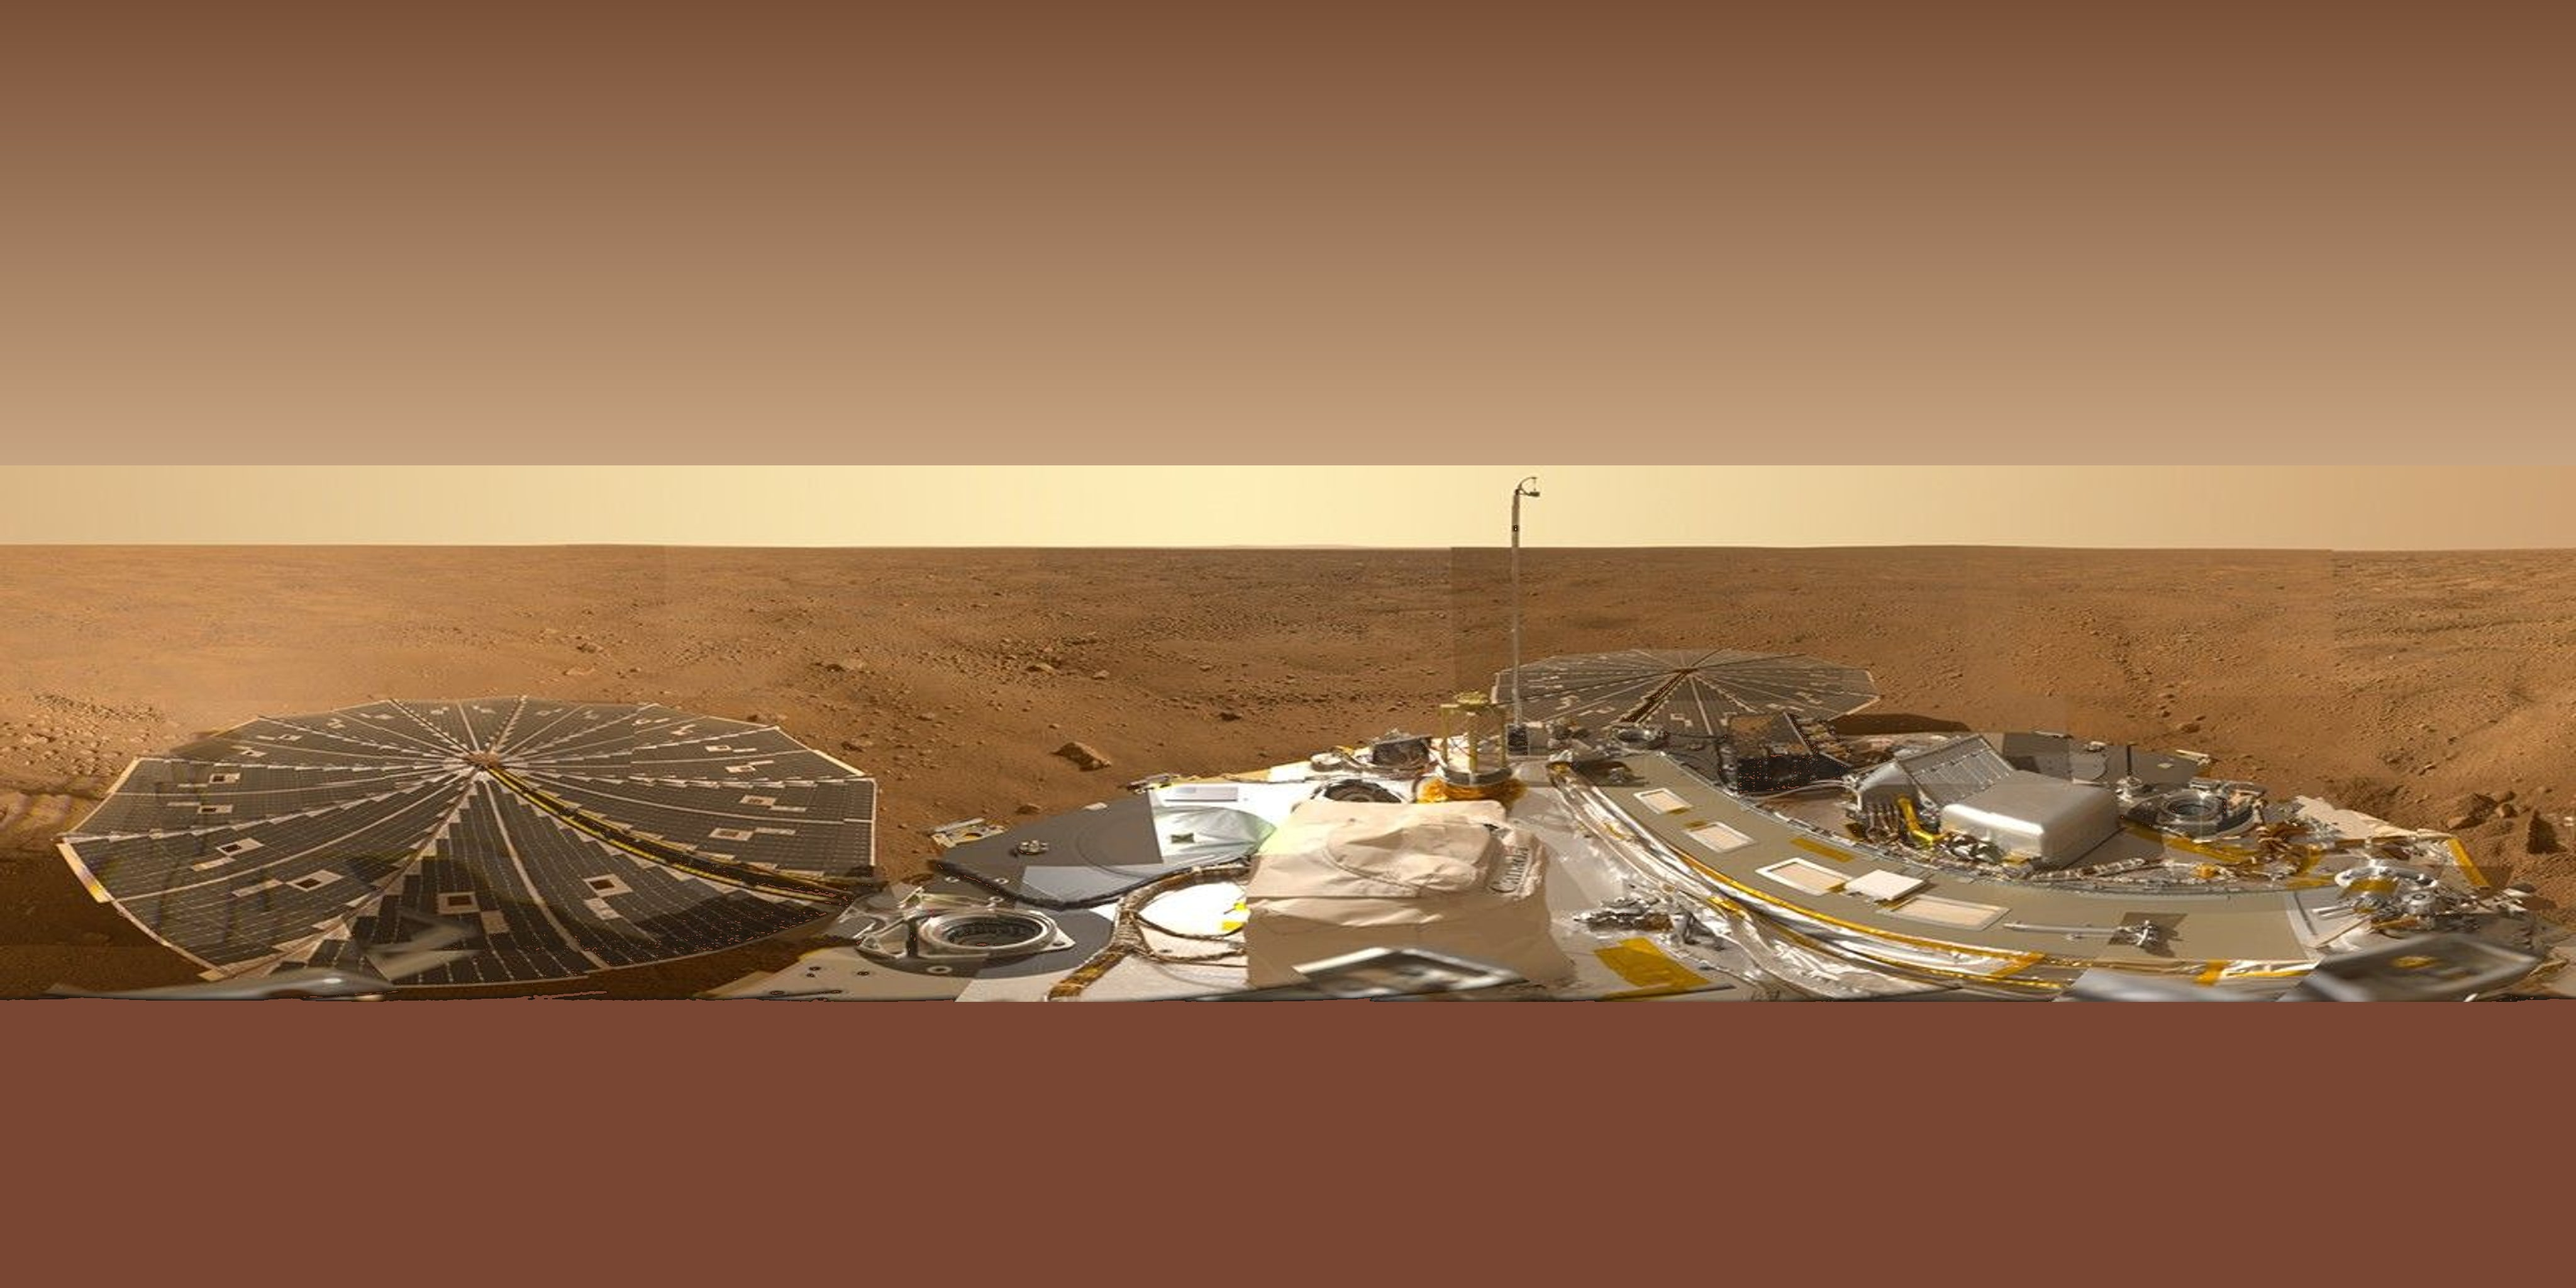
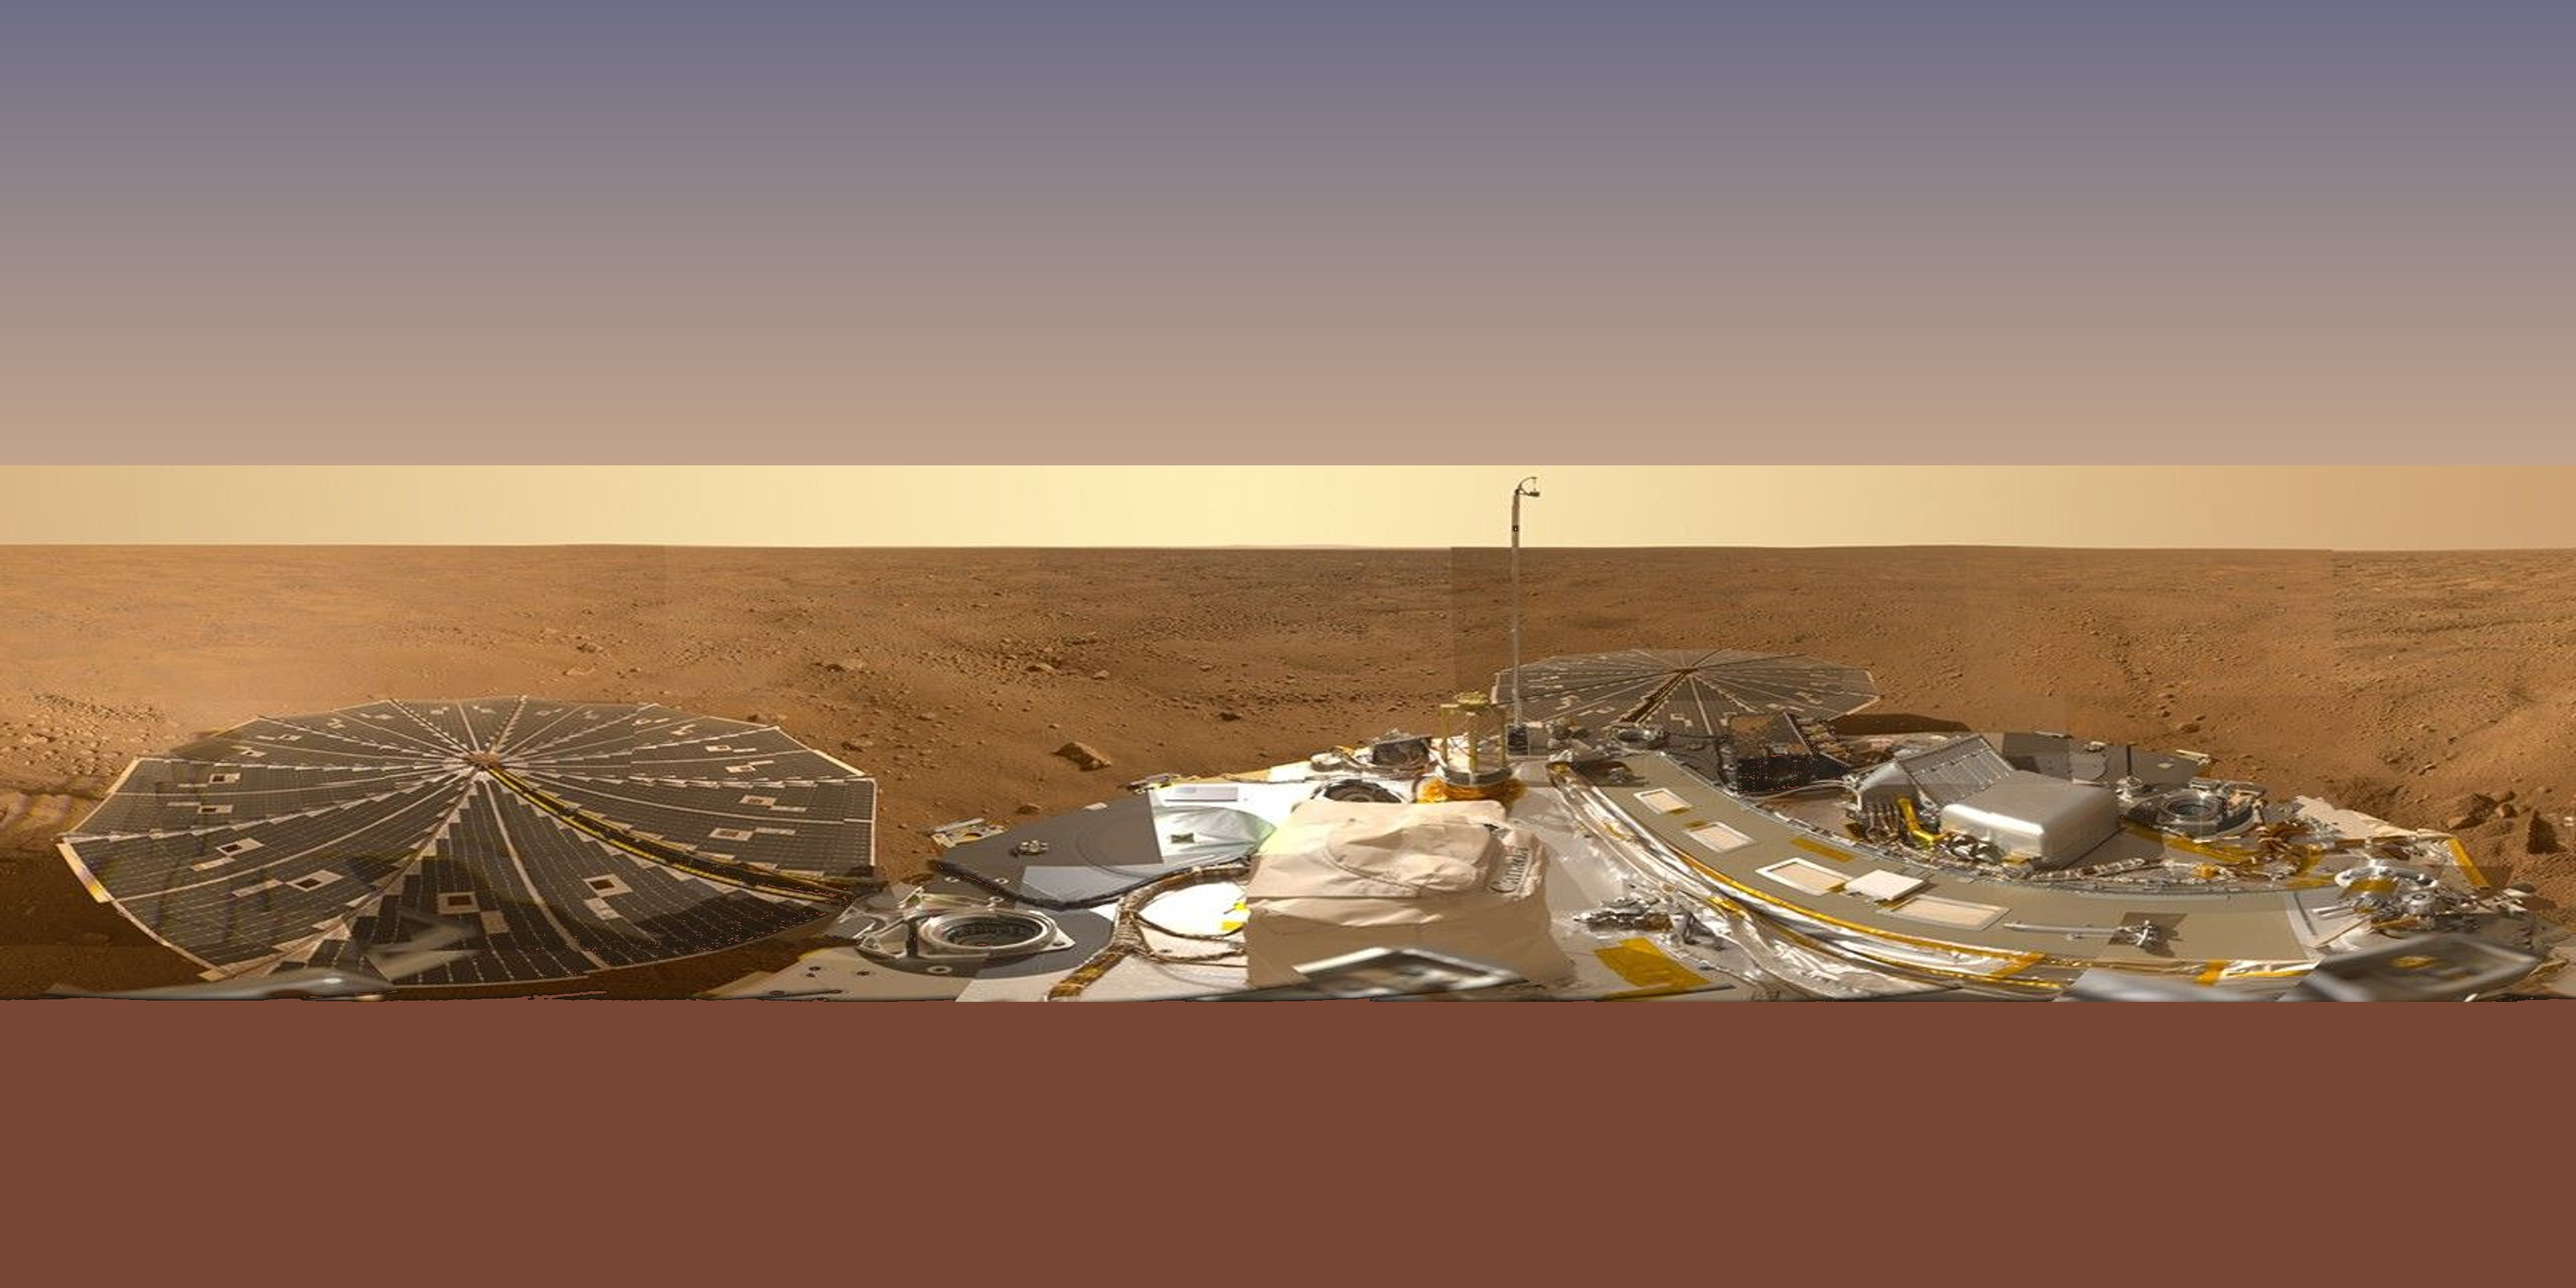
fix(panorama): per-site sky-palette overrides for Phoenix + Viking 1
Two sites carry distinctive published sky tones that the uniform
Mars palette didn't capture. The padder's per-site `palette`
override (already plumbed through PadInput) makes them site-specific.

PHOENIX (68°N arctic summer)
  - skyHorizon 195/165/140, skyZenith 110/110/135 — warm-tan at
    horizon blending to a cool blue/grey at zenith. Matches the
    polar-summer atmospheric tint visible in SSI panoramas; the
    rest of the Mars sites are warmer because they're at lower
    latitudes where Rayleigh-scattered blue is less prominent.

VIKING 1 ("Morning on Chryse" — pink/dusty)
  - skyHorizon 210/165/145, skyZenith 165/105/85, regolith 140/80/55,
    azimuthGap 120/75/55. The Viking-era colour-corrected mosaics
    have a famously rusty/salmon sky that became iconic 1976-era
    Mars imagery. Bumping the palette toward salmon-rust matches the
    aesthetic of the published B&W source's frame fill.

Visual review of all 10 panoramas post-round-2 elevation bumps +
these palette overrides:
  curiosity, perseverance, spirit, opportunity, phoenix, insight,
  mars-pathfinder, viking1-lander, viking2-lander, zhurong — all
  composing cleanly. Regolith bands proportional, no horizon-
  rectangle artifacts, sky gradients natural per site.

Changed region(s): [[0.0, 0.0, 1.0, 0.3125]]

diff --git a/scripts/hotspots/fetch-mars-panoramas.ts b/scripts/hotspots/fetch-mars-panoramas.ts
@@ -146,6 +146,14 @@ const PANORAMAS: MarsPanoramaConfig[] = [
     srcElevationTopDeg: 25,
     srcElevationBottomDeg: 50,
     caption: 'Phoenix lander deck + landing site, full-circle panorama (May 2008)',
+    // Phoenix sat at 68°N during arctic summer — the sky carried a
+    // distinctive pale-blue-toward-zenith tint visible in its SSI
+    // panoramas, unlike the warm-tan default of lower-latitude
+    // landers. The horizon stays warm-tan; the zenith blends cooler.
+    palette: {
+      skyHorizon: [195, 165, 140],
+      skyZenith: [110, 110, 135],
+    },
   },
   {
     siteId: 'insight',
@@ -200,6 +208,18 @@ const PANORAMAS: MarsPanoramaConfig[] = [
     srcElevationTopDeg: 5,
     srcElevationBottomDeg: 60,
     caption: 'Viking 1 lander, Chryse Planitia — "Morning on Chryse" Camera 1 mosaic (PIA03163)',
+    // Viking 1's "pink sky" was the famous early-mission colour-
+    // calibration story: the dusty Martian sky at Chryse appears
+    // pinker / dustier than other landing sites in the Viking-era
+    // colour-corrected mosaics. Bump the horizon toward salmon and
+    // lift the regolith into the rusty range to match the
+    // characteristic Viking-1 colour palette.
+    palette: {
+      skyHorizon: [210, 165, 145],
+      skyZenith: [165, 105, 85],
+      regolith: [140, 80, 55],
+      azimuthGap: [120, 75, 55],
+    },
   },
   {
     siteId: 'zhurong',
